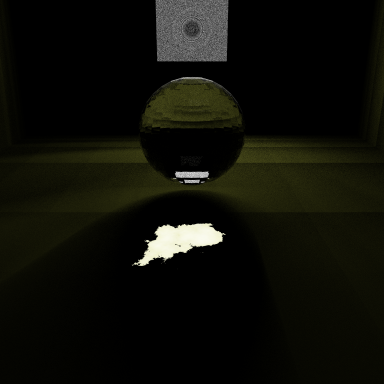
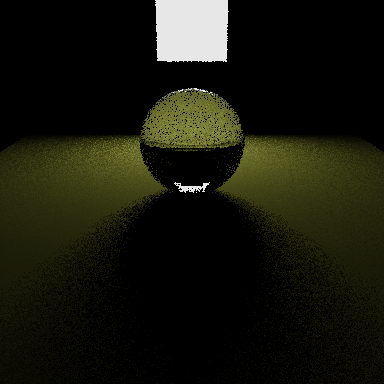
Integrated photon mapping new version, fix bug in greedy algorithm

Changed region(s): [[0.0, 0.0, 1.0, 0.6875], [0.3438, 0.5625, 0.5938, 0.7188], [0.9688, 0.1562, 1.0, 0.3125]]

diff --git a/main.cpp b/main.cpp
@@ -74,26 +74,26 @@ int main(int argc, char *argv[])
     }
     else if(args.size() == 3) {
         float timeStep = timeStepString.toFloat();
-        if(timeStep > 0 && timeStep < 1) {
-            for(int i = 0; i <= 1; i++) {
-                QImage image(IMAGE_WIDTH, IMAGE_HEIGHT, QImage::Format_RGB32);
+        for(int i = 0; i <= 1; i++) {
+            QImage image(IMAGE_WIDTH, IMAGE_HEIGHT, QImage::Format_RGB32);
 
-                QRgb *data = reinterpret_cast<QRgb *>(image.bits());
+            QRgb *data = reinterpret_cast<QRgb *>(image.bits());
 
-                tracer.traceScene(data, *scene, i);
+            tracer.traceScene(data, *scene, i);
 
-                std::string path = output.toStdString() + "-t" + std::to_string(i) + ".png";
+            std::string path = output.toStdString() + "-t" + std::to_string(i) + ".png";
 
-                bool success = image.save(QString::fromStdString(path));
-                if(!success) {
-                    success = image.save(output, "PNG");
-                }
-                if(success) {
-                    std::cout << "Wrote rendered image to " << path << std::endl;
-                } else {
-                    std::cerr << "Error: failed to write image to " << path << std::endl;
-                }
+            bool success = image.save(QString::fromStdString(path));
+            if(!success) {
+                success = image.save(output, "PNG");
             }
+            if(success) {
+                std::cout << "Wrote rendered image to " << path << std::endl;
+            } else {
+                std::cerr << "Error: failed to write image to " << path << std::endl;
+            }
+        }
+        if(timeStep > 0 && timeStep < 1) {
             float currentTime = timeStep;
             while(currentTime < 1) {
                 QImage image(IMAGE_WIDTH, IMAGE_HEIGHT, QImage::Format_RGB32);

diff --git a/pathtracer.cpp b/pathtracer.cpp
@@ -9,9 +9,10 @@
 #include <util/random.h>
 
 #include "tps.h"
+
 using namespace Eigen;
 
-bool doStylizedCaustics = false;
+bool doStylizedCaustics = true;
 bool useGreedyMethod = true;
 
 const double albedo = 0.75;
@@ -95,6 +96,7 @@ void PathTracer::traceScene(QRgb *imageData, const Scene& scene, float t)
         // Back projection
         stylizedCaustics.backProject(scene, pmap_caustic, plane, currentPos);
         std::cout << "Finish stylized caustics" << std::endl;
+        setIntegrator();
     }
 
     std::vector<Vector3f> intensityValues(m_width * m_height);
@@ -119,10 +121,13 @@ void PathTracer::generatePhotons(const Scene& scene) {
     std::cout << "finish first generate" << std::endl;
     pmap_r.balance();
     std::cout<<"finish generating photon map, size: "<<pmap_r.photons.size()<<std::endl;
-    pmap_caustic.maxPhotonNum = 200000;
+    pmap_caustic.maxPhotonNum = 300;
     photonmapper.generatePhotonMap(pmap_caustic, scene, true);
     pmap_caustic.balance();
     std::cout<<"finish generating caustic photon map, size: "<<pmap_caustic.photons.size()<<std::endl;
+}
+
+void PathTracer::setIntegrator() {
     m_integrator.setPmap(pmap_r);
     m_integrator.setPmapCaustic(pmap_caustic);
 }

diff --git a/stylized/stylizedcaustics.cpp b/stylized/stylizedcaustics.cpp
@@ -122,6 +122,7 @@ void StylizedCaustics::greedy() {
     float oldEnergy = energy(firstTerm, secondTerm), newEnergy;
     std::cout << "Original energy: " << oldEnergy << std::endl;
     bool swapAccepted = false;
+    int sum = 0;
     do {
         swapAccepted = false;
         for(int j = 0; j < n; j++) {
@@ -161,13 +162,17 @@ void StylizedCaustics::greedy() {
                 if(newEnergy < oldEnergy) {
                     oldEnergy = newEnergy;
                     swapAccepted = true;
+                    break;
                 } else {
                     std::swap(assignmentMap[j], assignmentMap[k]);
                     firstTerm = originalFirstTerm;
                     secondTerm = originalSecondTerm;
                 }
             }
+            if(swapAccepted) break;
         }
+        sum++;
+//        if(sum % n == 0) std::cout << sum << std::endl;
     } while(swapAccepted);
     std::cout << "Final energy: " << oldEnergy << std::endl;
 }

diff --git a/integrator.cpp b/integrator.cpp
@@ -89,8 +89,8 @@ Vector3f Integrator::traceRayWithPhotonMapping(const Ray& r, const Scene& scene,
         if (obj->getType() == MAT_TYPE_LAMBERTIAN) {
             Vector3f pos = {i.hit[0], i.hit[1], i.hit[2]};
             Vector3f normal = {n[0], n[1], n[2]};
-            sampleColor += pmap_caustic.getGaussianIrradiance(pos, normal, 0.003, 30, 10) / 10.0;
-            sampleColor += pmap.getGaussianIrradiance(pos, normal, 0.02, 20, 5);
+            sampleColor += pmap_caustic.getGaussianIrradiance(pos, normal, 0.01, 30, 10);
+//            sampleColor += pmap.getGaussianIrradiance(pos, normal, 0.02, 20, 5);
         } else {
             Ray nextRay(ray);
             obj->getScatteredRay(ray, i, nextRay);

diff --git a/photonmapping.cpp b/photonmapping.cpp
@@ -56,7 +56,6 @@ void PhotonMapping::selectMaterial(const tinyobj::material_t& mat, std::shared_p
         obj = std::make_shared<GlossySpecular>(mat);
     } else if (mat.specular[0] > 0.25 && mat.ior > 1.2) {
         obj = std::make_shared<Dielectric>(mat);
-//        std::cout << "whoohoo" << std::endl;
     } else if (mat.specular[0] > 0.25 && mat.shininess > 180.0) {
         obj = std::make_shared<Mirror>(mat);
     } else {

diff --git a/photon.h b/photon.h
@@ -54,7 +54,7 @@ public:
     int maxPhotonNum;
     std::vector<Photon> photons;
 
-    PhotonMap(int _maxPhotonNum = 400000);
+    PhotonMap(int _maxPhotonNum = 50000);
 
     void insert(PhotonMap photonMap);
 

diff --git a/pathtracer.h b/pathtracer.h
@@ -39,6 +39,7 @@ private:
     Plane plane;
 
     void generatePhotons(const Scene& scene);
+    void setIntegrator();
 
     void toneMap(QRgb *imageData, std::vector<Eigen::Vector3f> &intensityValues);
 
